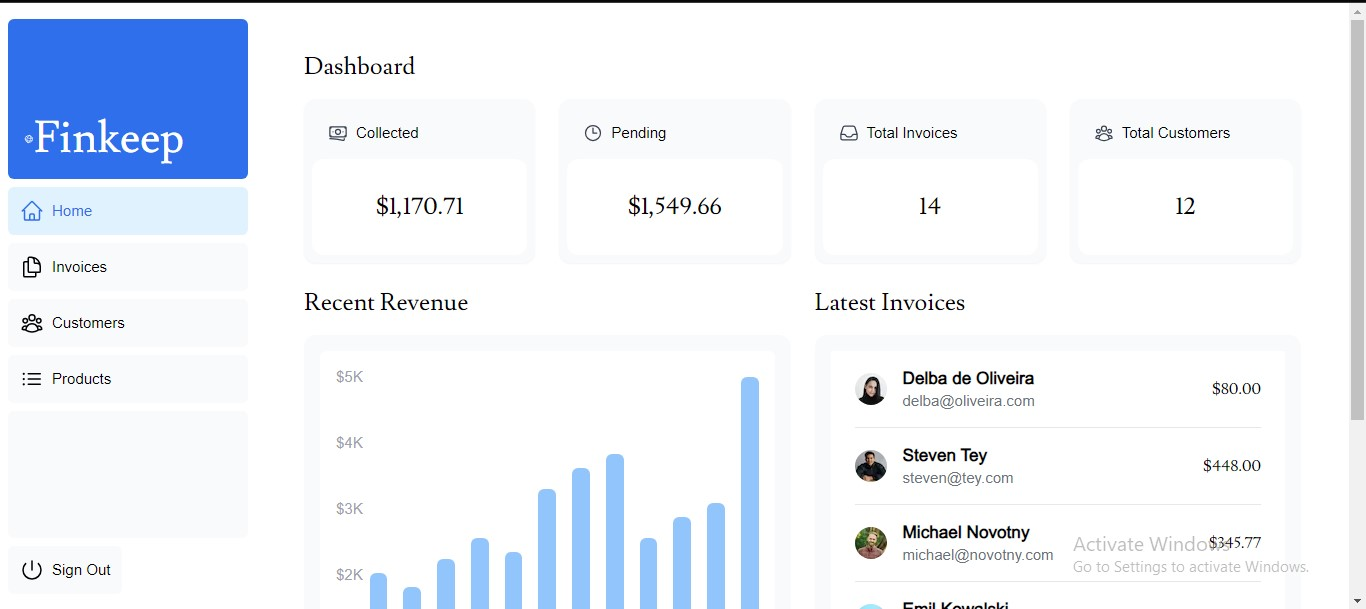
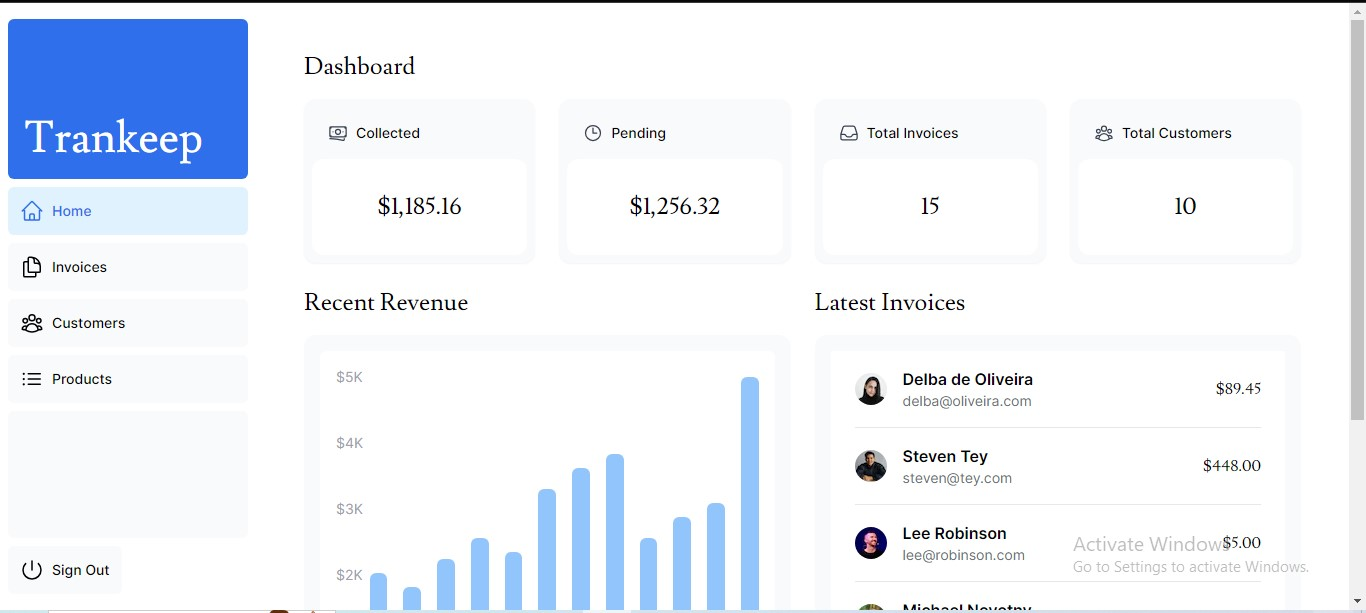
changed project url

diff --git a/src/app/components/ProjectsSection.jsx b/src/app/components/ProjectsSection.jsx
@@ -16,12 +16,12 @@ const projectsData = [
   },
   {
     id: 2,
-    title: "Finkeep",
+    title: "Trankeep",
     description: "A book-Keeping app for small businesses, built with Typescript, Next.js, Tailwindcss, and Postgresql.",
     image: "/images/projects/2.jpg",
     tag: ["All", "Web"],
-    gitUrl: "https://github.com/EbubeEvan/Finkeep",
-    previewUrl: "https://finkeep-ebubeevan.vercel.app/",
+    gitUrl: "https://github.com/EbubeEvan/Trankeep",
+    previewUrl: "https://trankeep.vercel.app/",
   },
 ];
 
